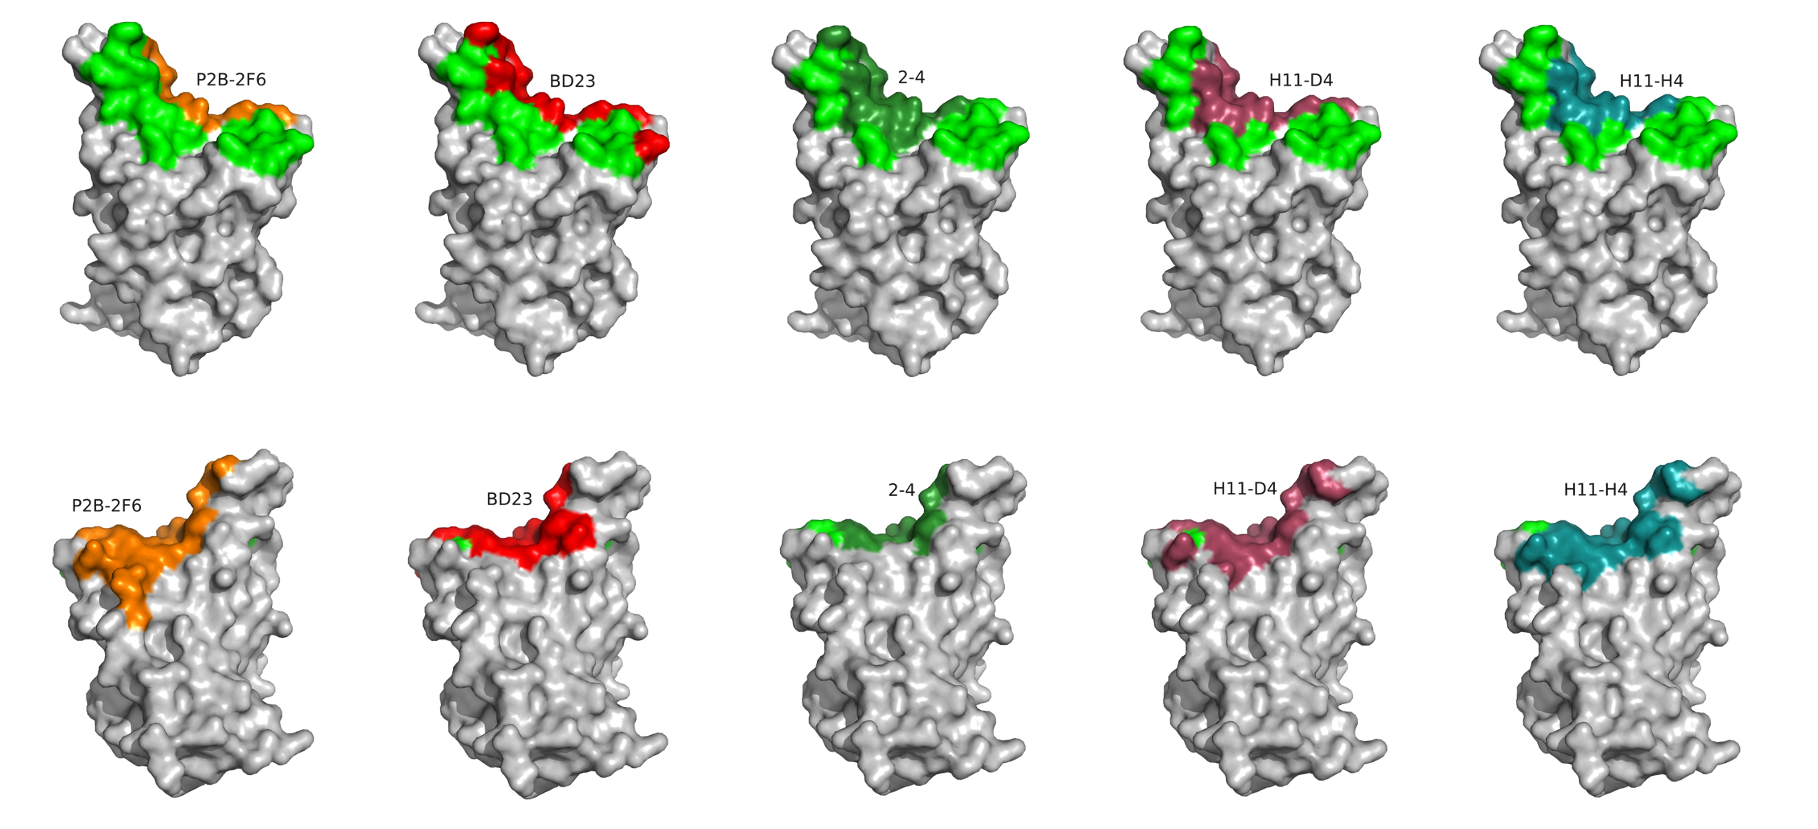
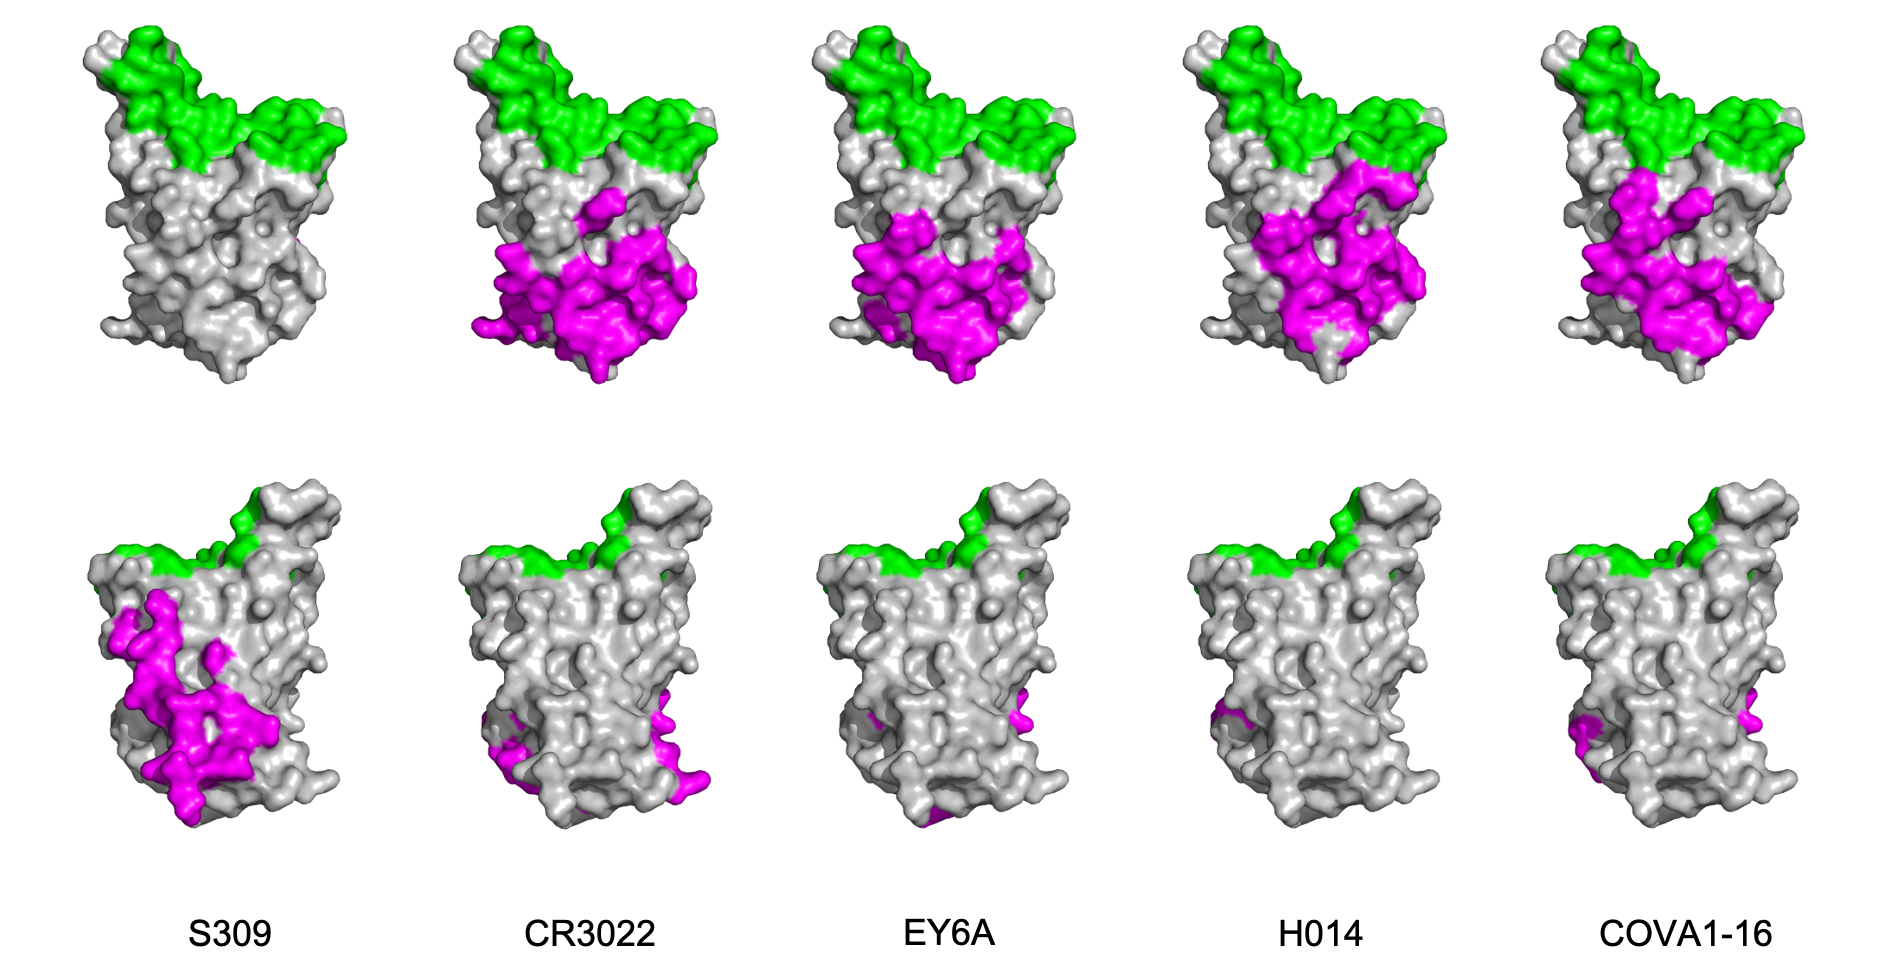
update spike structures

diff --git a/resources/spike-structures.md b/resources/spike-structures.md
@@ -97,23 +97,37 @@ The four S1 domains – N terminal domain (NTD; aka S1A; cyan), receptor binding
 
 </section>
 
-<section id="fig6" class="figure-section">
+<section id="table1" class="figure-section wrap">
 
 <div class="figure-image">
 
-![RBD core (non-ACE2-competing residues) mAb epitopes](spike-structures/fig6.png#!maxHeight=35rem)
+![Antibody metadata](spike-structures/table1.png#!maxHeight=30rem)
 
 </div>
 
 <div class="figure-caption">
 
-## [Figure 6](#fig6). RBD core (non-ACE2-competing residues) mAb epitopes.
-
-CR3022 and S309 are non-ACE2-competing monoclonal antibodies (mAb) that bind non-overlapping RBD core epitopes. The core is defined as the part of the RBD that does not contain the ACE2-competing residues. EY6A is a non-ACE2-competing mAb that overlaps with CR3022 (PDB: [6M0J]). The bottom row shows the RBD rotated 180 degrees. The ACE2-binding residues are shown in green.
+## [Table 1](#table1). Antibody metadata
 
 </div>
 
-[6M0J]: http://www.rcsb.org/structure/6M0J
+</section>
+
+<section id="fig6" class="figure-section wrap">
+
+<div class="figure-image">
+
+![RBD ACE2-competing antibody residues large footprint](spike-structures/fig6.png#!maxHeight=70rem)
+
+</div>
+
+<div class="figure-caption">
+
+## [Figure 6](#fig6). RBD ACE2-competing antibody residues, large ACE2 footprint(>50%).
+
+B38, BD-23, BD-236, BD-604, BD-629, CB6, CC12.1, CC12.3, COVA2-40, COVA2-39, CV07-250, and CV30 are ACE2-competing monoclonal antibodies (mAbs) that bind to a high proportion of ACE2-binding residues. B38, BD-236, BD-604, BD-629, CC12.1, CC12.3, COVA2-40, COVA2-39, and CV30 are encoded by the same variable heavy chain gene IGHV3-53. The bottom row shows the RBD rotated 180 degrees. The ACE2-binding residues are shown in green.
+
+</div>
 
 </section>
 
@@ -121,35 +135,37 @@ CR3022 and S309 are non-ACE2-competing monoclonal antibodies (mAb) that bind non
 
 <div class="figure-image">
 
-![RBD ACE2-competing antibody residues large footprint](spike-structures/fig7.png#!maxHeight=35rem)
+![RBD ACE2-competing (Receptor Binding Motif, RBM) antibody residues, small footprint](spike-structures/fig7.png#!maxHeight=70rem)
 
 </div>
 
 <div class="figure-caption">
 
-## [Figure 7](#fig7). RBD ACE2-competing antibody residues, encoded by IGVH3-53, large ACE2 footprint.
+## [Figure 7](#fig7). RBD ACE2-competing antibody residues, smaller ACE2 footprint (<50%).
 
-B38, CB6, CC12.1, CC12.3, CV30, and C105 are ACE2-competing monoclonal antibodies (mAbs) that bind to a high proportion of ACE2-binding residues. Each mAb is encoded by the same variable heavy chain gene IGHV3-53. The bottom row shows the RBD rotated 180 degrees. The ACE2-binding residues are shown in green.
+2-4, BD-368-2, C105, CV07-270, H11-D4, H11-H4, P2-2F6, Sb23, and Ty1 are ACE2-competing monoclonal antibodies (mAbs) that bind to overlapping residues. H11-H4 and H11-D4 are nanobodies that bind to the same region. These mAbs generally bind a lower proportion of ACE2-binding residues (compared with those in Figure 6), only C105 is encoded by IGHV3-53. The bottom row shows the RBD rotated 180 degrees. The ACE2-binding residues are shown in green.
 
 </div>
 
 </section>
 
-<section id="fig8" class="figure-section wrap">
+<section id="fig8" class="figure-section">
 
 <div class="figure-image">
 
-![RBD ACE2-competing (Receptor Binding Motif, RBM) antibody residues, small footprint](spike-structures/fig8.png#!maxHeight=35rem)
+![RBD core (non-ACE2-competing residues) mAb epitopes](spike-structures/fig8.png#!maxHeight=35rem)
 
 </div>
 
 <div class="figure-caption">
 
-## [Figure 8](#fig8). RBD ACE2-competing antibody residues, smaller ACE2 footprint.
+## [Figure 8](#fig8). RBD core (non-ACE2-competing residues) mAb epitopes.
 
-P2-2F6, BD23, and 2-4 are ACE2-competing monoclonal antibodies (mAbs) that bind to overlapping residues. H11-H4 and H11-D4 are nanobodies that bind to the same region. These mAbs generally bind a lower proportion of ACE2-binding residues (compared with those in Figure 7) and are not encoded by IGHV3-53. The bottom row shows the RBD rotated 180 degrees. The ACE2-binding residues are shown in green.
+RBD core is defined as the part of the RBD that does not contain the ACE2-competing residues. CR3022 and S309 are non-ACE2-competing monoclonal antibodies (mAb) that bind non-overlapping RBD core epitopes. EY6A, H014, and COVA1-16 are non-ACE2-competing monoclonal antibodies that overlap with CR3022 (PDB: [6M0J]). The bottom row shows the RBD rotated 180 degrees. The ACE2-binding residues are shown in green.
 
 </div>
+
+[6M0J]: http://www.rcsb.org/structure/6M0J
 
 </section>
 

diff --git a/resources/updates.md b/resources/updates.md
@@ -35,13 +35,14 @@ Instruction:
 
 - [Spike structures. Figures of SARS-CoV-2](/page/spike-structures/)
     - Figure 1. SARS-CoV-2 Trimeric Spike.
-    - Figure 2. Trimeric spike structures illustrating receptor binding domain (RBD) up (open; ACE2 accessible) and down (closed) configurations.
+    - Figure 2. Trimeric spike structures illustrating RBD (receptor binding domains) up (open; ACE2 accessible) and down (closed) configurations.
     - Figure 3. Spike RBD bound to ACE-2.
     - Figure 4. Spike S1 and S2 subunits.
     - Figure 5. S1 domains.
-    - Figure 6. RBD core mAb epitopes.
-    - Figure 7. RBD RBM antibody sites.
-    - Figure 8. RBD RBM antibody sites.
+    - Table 1. Antibody metadata.
+    - Figure 6. RBD ACE2-competing antibody residues, large ACE2 footprint(>50%).
+    - Figure 7. RBD ACE2-competing antibody residues, smaller ACE2 footprint (<50%).
+    - Figure 8. RBD core (non-ACE2-competing residues) mAb epitopes.
     - Figure 9. Regeneron ACE2-competing mAbs.
     - Figure 10. Naturally occurring spike RBD variants and mAb escape mutations.
     - Figure 11. Phylogenetic tree, multiple sequence alignment, and sequence variability of the SARS-related coronavirus (SARSr-CoV) spike receptor binding domain (RBD).
